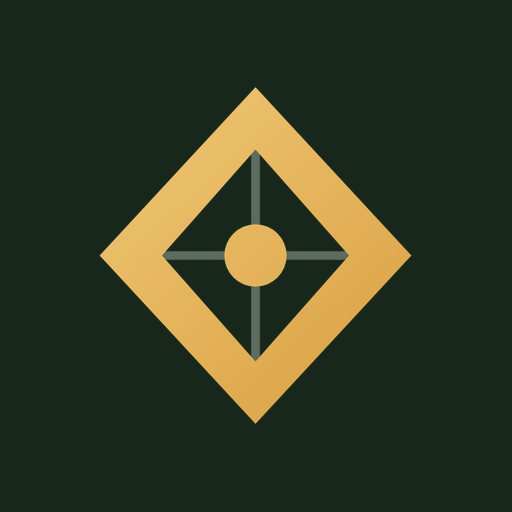
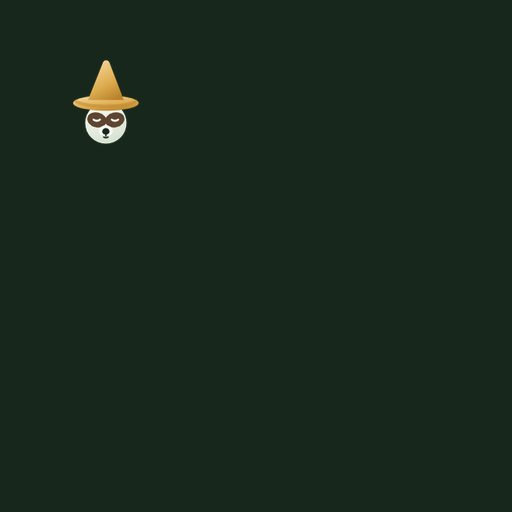
Make the mark a wizard sloth
The diamond said nothing about the name. The mascot is a sloth in a pointed hat: the
wizard cue is the silhouette, the sloth cue is the round face with two eye patches
angled toward the muzzle, and both survive the size the tab actually uses.

Drawn twice, because one drawing cannot serve 512 and 16: logo.svg carries the cream
face, brown patches, muzzle and claws; logo-small.svg keeps only cone, brim, face,
patches and nose. The icon set is generated from whichever suits its size.

The animated copies cannot use colour, so they use the trick the old crest used: one
filled path where the face is a hole cut out of the silhouette, with the lids added
back inside the cut-outs. That path is the same in the boot splash, ArmadaCrest, the
wreck animation and the Android vector, all of which keep their existing animation
targets by name.

Changed region(s): [[0.1875, 0.1562, 0.8125, 0.8438], [0.125, 0.0938, 0.2812, 0.2812]]

diff --git a/index.html b/index.html
@@ -89,29 +89,13 @@
         <!-- Hidden until the script below decides this launch isn't headed for
              /welcome. A display:none element doesn't animate, so revealing it
              starts the draw at frame one rather than mid-stroke. -->
-        <svg id="boot-mark" width="96" height="96" viewBox="0 0 128 128" fill="none" role="img" aria-label="Wizardry logo" style="display:none;filter:drop-shadow(0 8px 24px hsl(var(--primary, 330 90% 62%) / 0.25));">
-          <!-- Wake: each line sweeps open from the centerline (x=64, also every
-               line's own midpoint), then scans slowly in and out on its own
-               loop. Both are scaleX about that centerline, split across the
-               wrapper and the path so they don't fight over one transform. -->
-          <g fill="hsl(var(--accent2, 150 30% 62%))">
-            <g style="transform-origin:64px 0;animation:armada-wake 6s ease-in-out 0.9s infinite;">
-              <path d="M62.6 30h2.8v68h-2.8z" style="transform-origin:64px 0;animation:armada-sweep 0.52s cubic-bezier(0.22,1,0.36,1) both;"></path>
-            </g>
-            <g style="transform-origin:64px 0;animation:armada-wake 6s ease-in-out 1.5s infinite;">
-              <path d="M30 62.6h68v2.8h-68z" style="transform-origin:64px 0;animation:armada-sweep 0.52s cubic-bezier(0.22,1,0.36,1) 0.07s both;"></path>
-            </g>
-            <g style="transform-origin:64px 0;animation:armada-wake 6s ease-in-out 2.1s infinite;">
-              <path d="M62.6 30h2.8v68h-2.8z" style="transform-origin:64px 0;animation:armada-sweep 0.52s cubic-bezier(0.22,1,0.36,1) 0.14s both;"></path>
-            </g>
-          </g>
-          <!-- Sail, drawn in three stacked copies: halo sheen, fill, and the
-               hairline trace on top (pathLength="1" normalizes the dash). -->
-          <path d="M64 10L114 64L64 118L14 64Z M64 30L94 64L64 98L34 64Z" fill-rule="evenodd" fill="hsl(var(--primary, 330 90% 62%))" style="opacity:0;filter:drop-shadow(0 0 10px hsl(var(--primary, 330 90% 62%) / 0.6));animation:armada-sheen 0.9s ease-in-out 0.64s both;"></path>
-          <path d="M64 10L114 64L64 118L14 64Z M64 30L94 64L64 98L34 64Z" fill-rule="evenodd" fill="hsl(var(--primary, 330 90% 62%))" style="animation:armada-ink 0.42s ease-out 0.4s both;"></path>
-          <path d="M64 10L114 64L64 118L14 64Z M64 30L94 64L64 98L34 64Z" pathLength="1" fill="none" stroke="hsl(var(--primary, 330 90% 62%))" stroke-width="2" stroke-linecap="round" stroke-linejoin="round" style="opacity:0;stroke-dasharray:1;animation:armada-trace 0.78s cubic-bezier(0.65,0,0.35,1) 0.08s both;"></path>
-          <!-- Waterline caret, inked in last. -->
-          <path d="M64 54a10 10 0 1 0 0 20a10 10 0 1 0 0-20z" fill="hsl(var(--primary, 330 90% 62%))" fill-opacity="0.85" style="animation:armada-ink 0.32s ease-out 0.86s both;"></path>
+        <svg id="boot-mark" width="96" height="96" viewBox="0 0 128 128" fill="none" role="img" aria-label="Wizardry logo" style="display:none;filter:drop-shadow(0 8px 24px hsl(var(--primary, 40 68% 62%) / 0.25));">
+          <!-- The mark in three stacked copies: halo sheen, fill, and the hairline
+               trace on top (pathLength="1" normalizes the dash). The hat, face and
+               features are one path, so the trace draws the whole creature. -->
+          <path d="M64 59.5a26.5 26.5 0 1 1 0 53.0a26.5 26.5 0 1 1 0 -53.0Z M64.4 5.6c2.4 0 4.3 1.9 4.8 4.4L87 56.4H41L59.6 10c.5-2.5 2.4-4.4 4.8-4.4Z M64 45.4c23.2 0 42 4.4 42 9.8s-18.8 9.8-42 9.8-42-4.4-42-9.8 18.8-9.8 42-9.8Z M64.63 85.02A12.5 9.5 14 1 0 40.37 78.98A12.5 9.5 14 1 0 64.63 85.02Z M87.63 78.98A12.5 9.5 -14 1 0 63.37 85.02A12.5 9.5 -14 1 0 87.63 78.98Z M69.20 96.40A5.2 4.2 0 1 0 58.80 96.40A5.2 4.2 0 1 0 69.20 96.40Z M59.87 82.44A7.6 1.7 14 1 1 45.13 78.76A7.6 1.7 14 1 1 59.87 82.44Z M82.87 78.76A7.6 1.7 -14 1 1 68.13 82.44A7.6 1.7 -14 1 1 82.87 78.76Z" fill-rule="nonzero" fill="hsl(var(--primary, 40 68% 62%))" style="opacity:0;filter:drop-shadow(0 0 10px hsl(var(--primary, 40 68% 62%) / 0.6));animation:armada-sheen 0.9s ease-in-out 0.64s both;"></path>
+          <path d="M64 59.5a26.5 26.5 0 1 1 0 53.0a26.5 26.5 0 1 1 0 -53.0Z M64.4 5.6c2.4 0 4.3 1.9 4.8 4.4L87 56.4H41L59.6 10c.5-2.5 2.4-4.4 4.8-4.4Z M64 45.4c23.2 0 42 4.4 42 9.8s-18.8 9.8-42 9.8-42-4.4-42-9.8 18.8-9.8 42-9.8Z M64.63 85.02A12.5 9.5 14 1 0 40.37 78.98A12.5 9.5 14 1 0 64.63 85.02Z M87.63 78.98A12.5 9.5 -14 1 0 63.37 85.02A12.5 9.5 -14 1 0 87.63 78.98Z M69.20 96.40A5.2 4.2 0 1 0 58.80 96.40A5.2 4.2 0 1 0 69.20 96.40Z M59.87 82.44A7.6 1.7 14 1 1 45.13 78.76A7.6 1.7 14 1 1 59.87 82.44Z M82.87 78.76A7.6 1.7 -14 1 1 68.13 82.44A7.6 1.7 -14 1 1 82.87 78.76Z" fill-rule="nonzero" fill="hsl(var(--primary, 40 68% 62%))" style="animation:armada-ink 0.42s ease-out 0.4s both;"></path>
+          <path d="M64 59.5a26.5 26.5 0 1 1 0 53.0a26.5 26.5 0 1 1 0 -53.0Z M64.4 5.6c2.4 0 4.3 1.9 4.8 4.4L87 56.4H41L59.6 10c.5-2.5 2.4-4.4 4.8-4.4Z M64 45.4c23.2 0 42 4.4 42 9.8s-18.8 9.8-42 9.8-42-4.4-42-9.8 18.8-9.8 42-9.8Z M64.63 85.02A12.5 9.5 14 1 0 40.37 78.98A12.5 9.5 14 1 0 64.63 85.02Z M87.63 78.98A12.5 9.5 -14 1 0 63.37 85.02A12.5 9.5 -14 1 0 87.63 78.98Z M69.20 96.40A5.2 4.2 0 1 0 58.80 96.40A5.2 4.2 0 1 0 69.20 96.40Z M59.87 82.44A7.6 1.7 14 1 1 45.13 78.76A7.6 1.7 14 1 1 59.87 82.44Z M82.87 78.76A7.6 1.7 -14 1 1 68.13 82.44A7.6 1.7 -14 1 1 82.87 78.76Z" pathLength="1" fill="none" stroke="hsl(var(--primary, 40 68% 62%))" stroke-width="2" stroke-linecap="round" stroke-linejoin="round" style="opacity:0;stroke-dasharray:1;animation:armada-trace 0.78s cubic-bezier(0.65,0,0.35,1) 0.08s both;"></path>
         </svg>
       </div>
     </div>

diff --git a/src/components/brand/ArmadaWreck.tsx b/src/components/brand/ArmadaWreck.tsx
@@ -1,10 +1,10 @@
 import { useId, type CSSProperties } from "react";
 
-import { CARET, SAIL, WAVES } from "./ArmadaCrest";
+import { NOSE, SLOTH, WAVES } from "./ArmadaCrest";
 
 /**
  * The Armada mark struck from the heavens: the sky gathers, a bolt comes down
- * a pillar of light, and the sail is blown into shards that rain onto a
+ * a pillar of light, and the mark is blown into shards that rain onto a
  * burning sea. One-shot, then the wreck smoulders under the light.
  *
  * Every element's *static* style is its final resting state (keyframes supply
@@ -39,8 +39,8 @@ function anim(name: string, dur: number, delay: number, ease = "ease-out", tail 
 type Shard = { points: string; style: CSSProperties };
 
 /**
- * A jittered triangulation of the sail's bounding box. Each triangle is clipped
- * to the sail where it is drawn, so together they are exactly the mark.
+ * A jittered triangulation of the mark's bounding box. Each triangle is clipped
+ * to the mark where it is drawn, so together they are exactly the mark.
  */
 function buildShards(): Shard[] {
   const cols = [22, 43, 64, 85, 106];
@@ -144,7 +144,7 @@ const RAYS = [-34, -20, -9, 9, 20, 34].map((spread) => {
   return `64,${HEAVEN} ${64 + spread * 2.4 - w},112 ${64 + spread * 2.4 + w},112`;
 });
 
-/** The bolt: a jagged stroke from the top of the sky to the heart of the sail. */
+/** The bolt: a jagged stroke from the top of the sky to the heart of the mark. */
 const BOLT_STEPS = 16;
 const BOLT_POINTS = Array.from({ length: BOLT_STEPS + 1 }, (_, i) => {
   const t = i / BOLT_STEPS;
@@ -157,7 +157,7 @@ const BOLT_FORK = `M${FORK_FROM[0].toFixed(1)} ${FORK_FROM[1].toFixed(1)} l-12 1
 
 export function ArmadaWreck({ className = "" }: { className?: string }) {
   const uid = useId().replace(/[^a-zA-Z0-9]/g, "");
-  const sailClip = `wreck-sail-${uid}`;
+  const markClip = `wreck-mark-${uid}`;
   const leftClip = `wreck-left-${uid}`;
   const rightClip = `wreck-right-${uid}`;
   const pillarGrad = `wreck-pillar-${uid}`;
@@ -172,8 +172,8 @@ export function ArmadaWreck({ className = "" }: { className?: string }) {
   return (
     <svg viewBox="-40 -72 208 200" fill="none" aria-hidden="true" overflow="visible" className={className}>
       <defs>
-        <clipPath id={sailClip}>
-          <path d={SAIL} />
+        <clipPath id={markClip}>
+          <path d={SLOTH} />
         </clipPath>
         <clipPath id={leftClip}>
           <rect x={-40} y={0} width={104} height={128} />
@@ -208,7 +208,7 @@ export function ArmadaWreck({ className = "" }: { className?: string }) {
         </filter>
       </defs>
 
-      {/* The heavens open: rays gather over the sail before the strike. */}
+      {/* The heavens open: rays gather over the mark before the strike. */}
       <g
         style={{
           opacity: 0.6,
@@ -302,8 +302,8 @@ export function ArmadaWreck({ className = "" }: { className?: string }) {
           ].join(", "),
         }}
       >
-        <path d={SAIL} />
-        <path d={CARET} fillOpacity={0.85} />
+        <path d={SLOTH} />
+        <path d={NOSE} fillOpacity={0.85} />
       </g>
 
       {/* Three drift groups bob the debris on the water at different phases. */}
@@ -323,13 +323,13 @@ export function ArmadaWreck({ className = "" }: { className?: string }) {
           >
             {SHARDS.filter((_, i) => i % 3 === group).map((shard, i) => (
               <g key={i} style={shard.style}>
-                <polygon points={shard.points} clipPath={`url(#${sailClip})`} />
+                <polygon points={shard.points} clipPath={`url(#${markClip})`} />
               </g>
             ))}
           </g>
         ))}
         <path
-          d={CARET}
+          d={NOSE}
           fillOpacity={0.85}
           style={{
             opacity: 0,

diff --git a/src/components/brand/ArmadaCrest.tsx b/src/components/brand/ArmadaCrest.tsx
@@ -10,10 +10,18 @@ import { APP_NAME } from "@/lib/platform";
  * only the entrance), so `prefers-reduced-motion` lands on the finished mark.
  */
 
-export const SAIL =
-  "M64 10L114 64L64 118L14 64Z M64 30L94 64L64 98L34 64Z";
-export const CARET =
-  "M64 54a10 10 0 1 0 0 20a10 10 0 1 0 0-20z";
+/**
+ * The wizard sloth as one filled path: head, cone and brim add up (clockwise), the
+ * eye patches and nose are cut out (counter-clockwise), and the two lids are added
+ * back inside the cut-outs so the face reads as closed eyes rather than holes.
+ * `nonzero` is what makes that arithmetic work — `evenodd` would punch the overlaps.
+ */
+export const SLOTH =
+  "M64 59.5a26.5 26.5 0 1 1 0 53.0a26.5 26.5 0 1 1 0 -53.0Z M64.4 5.6c2.4 0 4.3 1.9 4.8 4.4L87 56.4H41L59.6 10c.5-2.5 2.4-4.4 4.8-4.4Z M64 45.4c23.2 0 42 4.4 42 9.8s-18.8 9.8-42 9.8-42-4.4-42-9.8 18.8-9.8 42-9.8Z M64.63 85.02A12.5 9.5 14 1 0 40.37 78.98A12.5 9.5 14 1 0 64.63 85.02Z M87.63 78.98A12.5 9.5 -14 1 0 63.37 85.02A12.5 9.5 -14 1 0 87.63 78.98Z M69.20 96.40A5.2 4.2 0 1 0 58.80 96.40A5.2 4.2 0 1 0 69.20 96.40Z M59.87 82.44A7.6 1.7 14 1 1 45.13 78.76A7.6 1.7 14 1 1 59.87 82.44Z M82.87 78.76A7.6 1.7 -14 1 1 68.13 82.44A7.6 1.7 -14 1 1 82.87 78.76Z";
+
+/** The nose on its own, for the wreck's waterline. */
+export const NOSE =
+  "M69.20 96.40A5.2 4.2 0 1 0 58.80 96.40A5.2 4.2 0 1 0 69.20 96.40Z";
 export const WAVES = [
   "M62.6 30h2.8v68h-2.8z",
   "M30 62.6h68v2.8h-68z",
@@ -108,7 +116,6 @@ function Waves({ loop }: { loop: boolean }) {
 export function ArmadaCrest({
   size = 132,
   className = "",
-  loop = false,
 }: {
   size?: number;
   className?: string;
@@ -125,14 +132,7 @@ export function ArmadaCrest({
       aria-label={intl.formatMessage({ id: "armadaCrest.logo", defaultMessage: "{app} logo" }, { app: APP_NAME })}
       className={`relative drop-shadow-[0_8px_24px_hsl(var(--primary)/0.25)] ${className}`}
     >
-      <Waves loop={loop} />
-      <DrawnPath d={SAIL} fillRule="evenodd" />
-      <path
-        d={CARET}
-        fill="hsl(var(--primary))"
-        fillOpacity={0.85}
-        className="animate-[armada-ink_0.32s_ease-out_0.86s_both]"
-      />
+      <DrawnPath d={SLOTH} fillRule="nonzero" />
     </svg>
   );
 }
